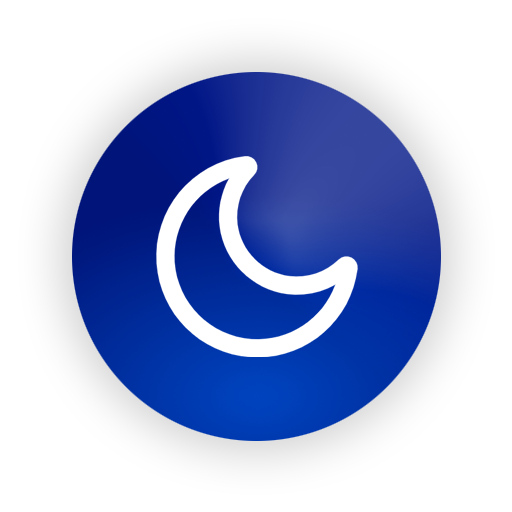
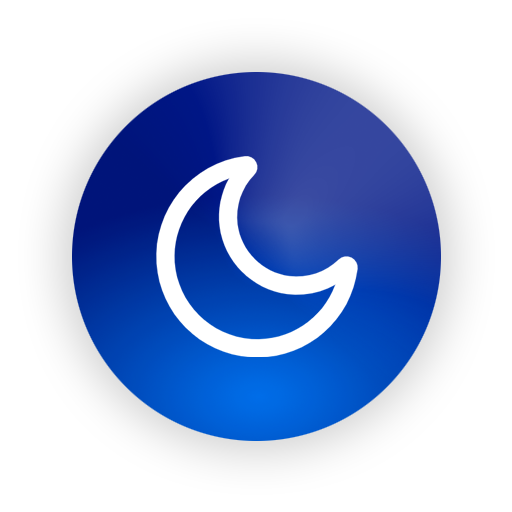
feat: 提亮了sleep图标； config的预设值改为宏； config的字符串拼接改为用format

Changed region(s): [[0.2188, 0.5938, 0.7812, 0.875]]

diff --git a/windows-shutdown/config.cpp b/windows-shutdown/config.cpp
@@ -5,6 +5,7 @@
 #include <algorithm>
 #include <fstream>
 #include <sstream>
+#include <format>
 
 std::string trim(const std::string& s) {
   auto start = s.begin();
@@ -33,31 +34,27 @@ std::wstring GetConfigPath() {
   return path;
 }
 
-const std::string MODE_IMMEDIATE = "immediate";
-const std::string MODE_NORMAL = "normal";
 
 void Config::Load() {
   std::wstring configPath = GetConfigPath();
   std::ifstream file(configPath);
   if (!file.is_open()) {
     // Create default config.ini
+    std::string content = std::format(
+        "# When loading is failed, we will use default config values.\n"
+        "\n"
+        "# `mode` options:\n"
+        "# - `{}` (default): show menu to choose an action\n"
+        "# - `{}` : shutdown instantly\n"
+        "mode={}\n"
+        "\n"
+        "# Wait time (in seconds) before action\n"
+        "delay={}\n",
+        MODE_NORMAL, MODE_IMMEDIATE, MODE_NORMAL,
+        DEFAULT_DELAY
+    );
     std::ofstream out(configPath);
-    out << "# If an invalid config file or invalid values are detected, we "
-           "will use default values."
-        << std::endl;
-    out << "# `mode` can be \"" << MODE_IMMEDIATE << "\" and \"" << MODE_NORMAL
-        << "\"" << std::endl;
-    out << "# \"" << MODE_NORMAL
-        << "\"(default): will popup control buttons to choose whether shutdown "
-           "or restart"
-        << std::endl;
-    out << "# \"" << MODE_IMMEDIATE << "\": will shutdown immediately"
-        << std::endl;
-    out << "mode=" << MODE_NORMAL << std::endl;
-    out << "# Shutdown/Restart in this many seconds, set it to 0 to do it "
-           "immediately"
-        << std::endl;
-    out << "delay=" << DEFAULT_DELAY << std::endl;
+    out << content;
     out.close();
     return;
   }

diff --git a/windows-shutdown/config.h b/windows-shutdown/config.h
@@ -1,5 +1,8 @@
 #pragma once
 
+#define MODE_IMMEDIATE "immediate"
+#define MODE_NORMAL "normal"
+
 enum class Mode { IMMEDIATE, NORMAL };
 constexpr int DEFAULT_DELAY = 3;
 
@@ -9,3 +12,4 @@ struct Config {
 
   void Load();
 };
+
